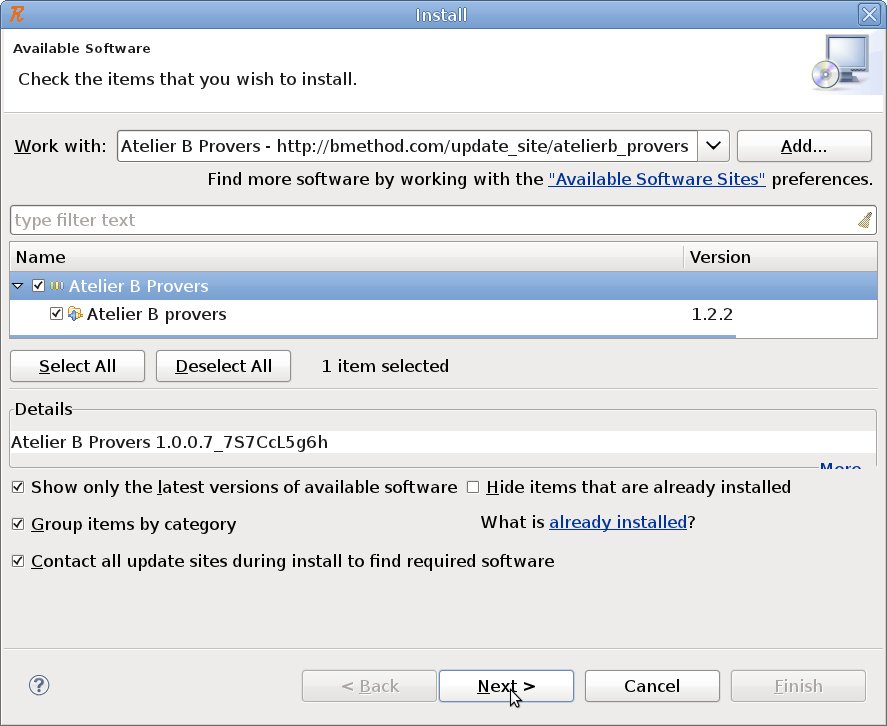
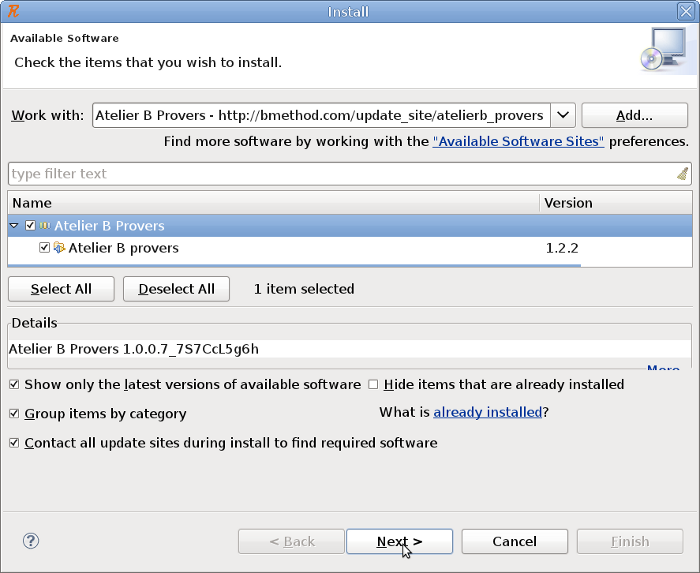
major changes
git-svn-id: svn://svn.code.sf.net/p/rodin-b-sharp/svn/trunk/Handbook@12263 1434b563-b632-4741-aa49-43a3a8374d2e

diff --git a/org.rodinp.handbook.feature/latex/tutorial-02.tex b/org.rodinp.handbook.feature/latex/tutorial-02.tex
@@ -46,13 +46,13 @@ To install Rodin just extract the contents of the zip file in a desired folder. 
 Starting Rodin should bring up the window as shown below. Here you can specify the path where Rodin stores your projects.
 
 \begin{center}
-	\includegraphics[width=0.7\textwidth]{img/tutorial/install2.png}
+	\includegraphics{img/tutorial/install2.png}
 \end{center}
 
 After specifying a path click on the \textsf{OK} button. Rodin should start and bring up the following window:
 
 \begin{center}
-	\includegraphics[width=1.0\textwidth]{img/tutorial/install3.png}
+	\includegraphics{img/tutorial/install3.png}
 \end{center}
 
 As already mentioned in Section \ref{subsection_eclipse} the GUI of an Eclipse application consists of Views, Editors, Toolbars, Quickview, Perspectives and many more elements. In this Section we name the different Rodin GUI elements (i.e. views) which are visible after starting Rodin for the first time and explain their functions:
@@ -74,5 +74,5 @@ This sections shows how to install new plugins for Rodin. We show this on the ex
 Open the Install Manager of Eclipse (\ref{eclipse}) \textsf{Help $\rangle$ Install New Software...}. Select the Atelier B Provers update site in the field \textsf{Work with}, mark the Atelier B Provers entry and click on the \textsf{Next} button. Follow the installation instruction in order to install the plugin. After installing the plugin you will be asked to restart Rodin in order to finalize the installation.
 
 \begin{center}
-	\includegraphics[width=1.0\textwidth]{img/tutorial/install4.png}
+	\includegraphics{img/tutorial/install4.png}
 \end{center}
